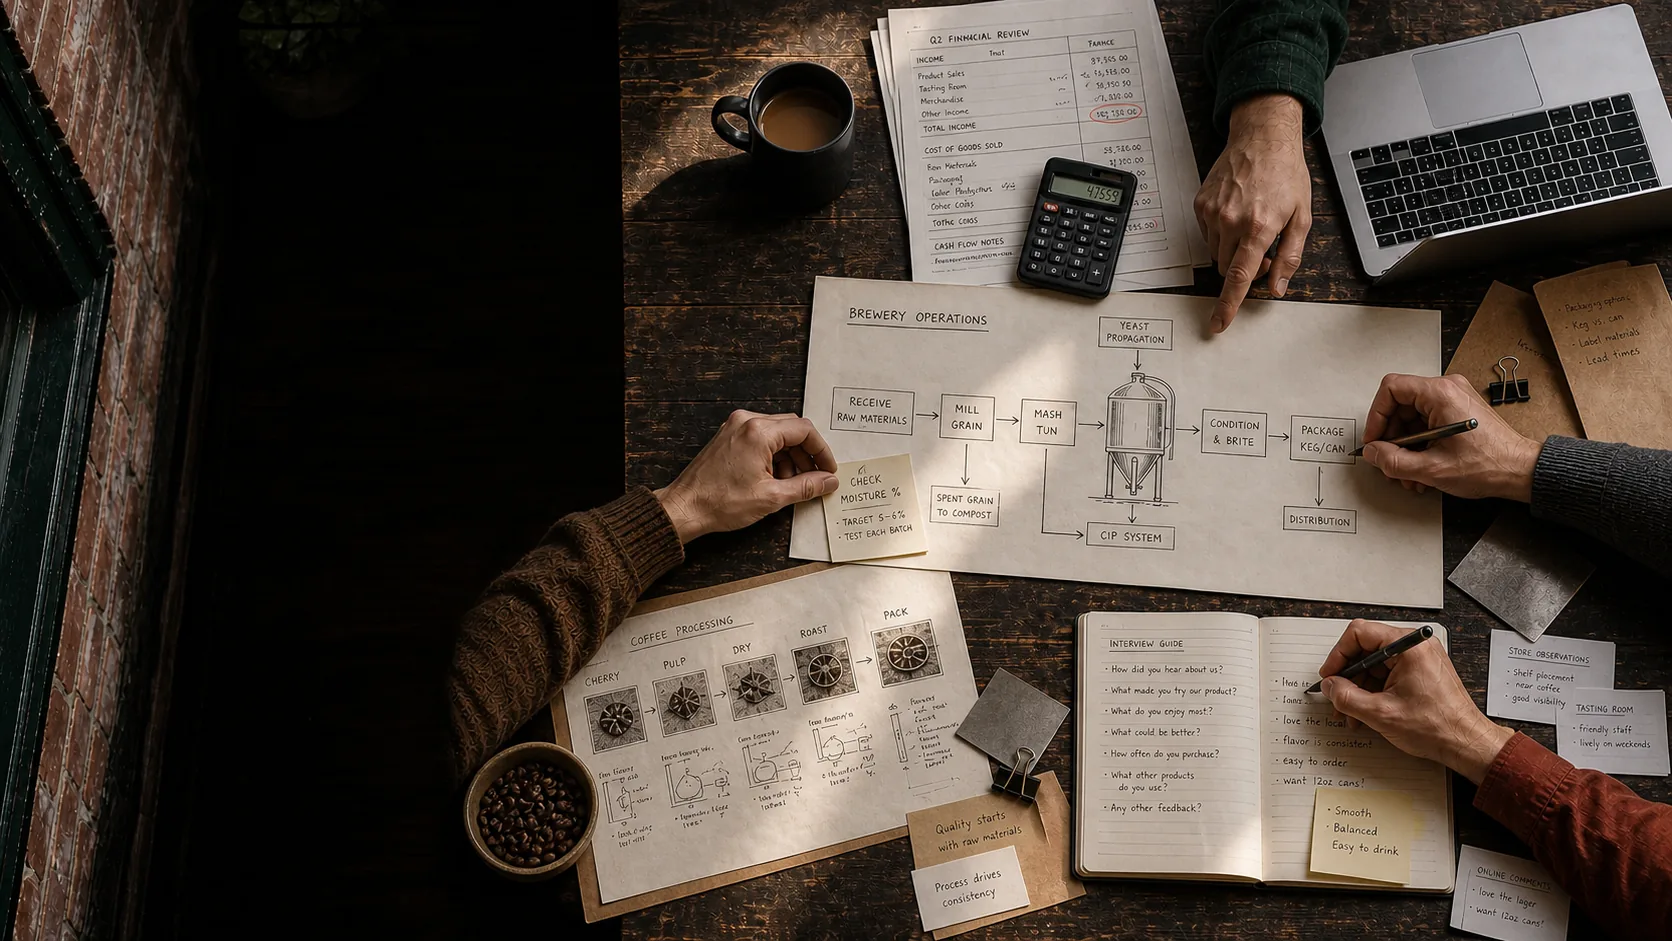
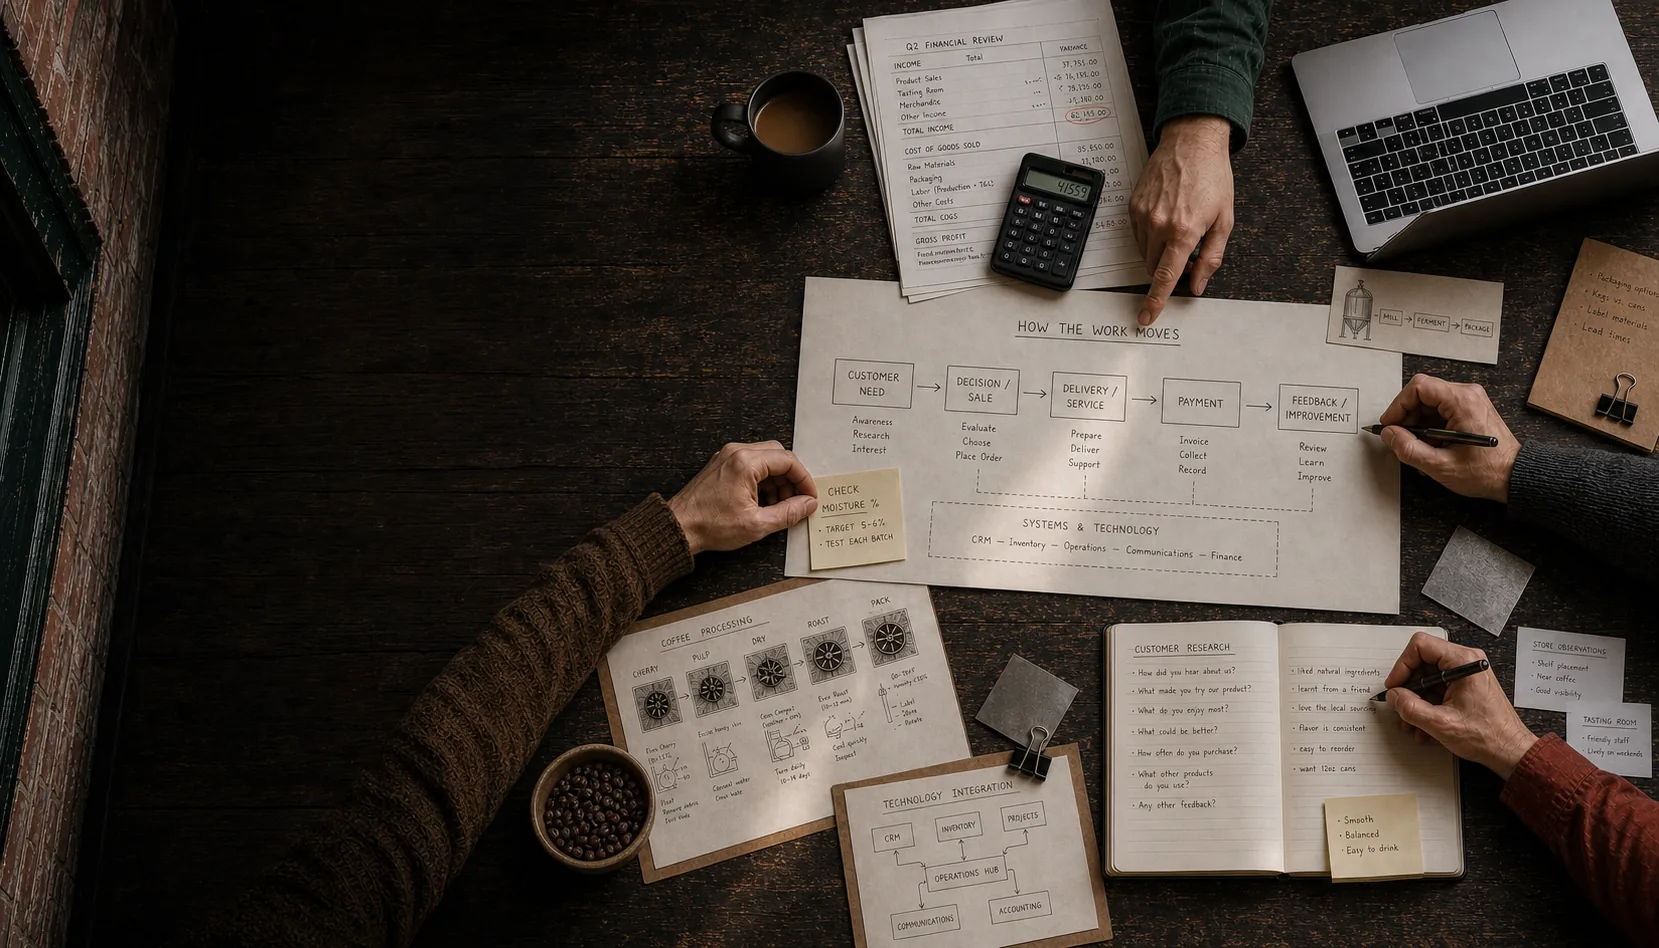
Broaden hero beyond brewing operations

diff --git a/src/App.tsx b/src/App.tsx
@@ -69,7 +69,7 @@ export default function App() {
         <img
           className="hero-image"
           src="/fan-works-hero.webp"
-          alt="Four collaborators reviewing brewery, finance, coffee, and customer research workflows"
+          alt="Four collaborators connecting business operations, finance, technology, and customer research"
           decoding="async"
         />
         <div className="hero-ink" aria-hidden="true" />